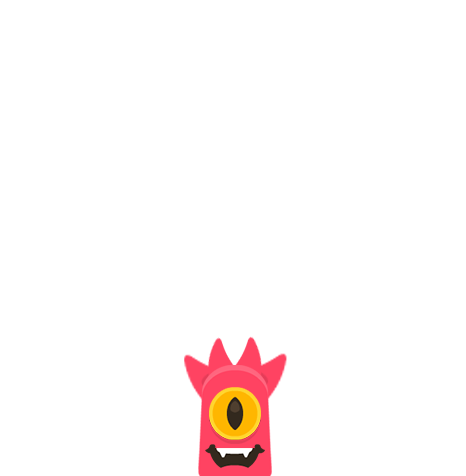
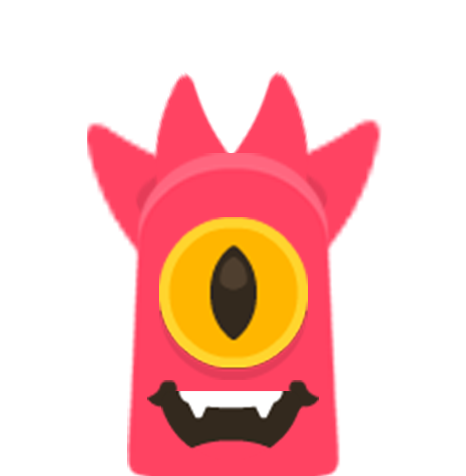
Boss assets added

diff --git a/MonstroStrike/MonstroStrike/GameState_Level1.cpp b/MonstroStrike/MonstroStrike/GameState_Level1.cpp
@@ -352,7 +352,7 @@ void Level1_Initialize()
 
 #pragma region Enemy
 	Enemy_Init({70.f,70.f}, {1200.f,-320.f}, ENEMY_IDLE, vecEnemy[0]);
-	Enemy_Init({200.f,200.f}, {-500.f,-100.f}, ENEMY_IDLE, vecEnemy[1]);
+	Enemy_Init({100.f,100.f}, {500.f, 250.f}, ENEMY_IDLE, vecEnemy[1]);
 	Enemy_Init({70.f,70.f}, { -500.f,250.f }, ENEMY_IDLE, vecEnemy[2]);
 	Enemy_Init({ 70.f,70.f }, { 800.f,150.f }, ENEMY_IDLE, vecEnemy[3]);
 #pragma endregion Enemy
@@ -361,7 +361,7 @@ void Level1_Initialize()
 
 void Level1_Update()
 {
-	//std::cout << AEFrameRateControllerGetFrameRate() << "\n";
+	std::cout << AEFrameRateControllerGetFrameRate() << "\n";
 	PlayerUpdate(*player);
 	cam->UpdatePos(*player);
 
@@ -543,13 +543,14 @@ void Level1_Update()
 						enemy.loop_idle = false;
 					}
 
-
-					for ( Bullet& bullet : enemy.bullets) {
-						if (AABBvsAABB(bullet.collisionBox, grids2D[rows][cols].collisionBox)) {
-							bullet.lifetime = 0; //makes bullet erase
-
+					if (enemy.enemyType == ENEMY_FLY || enemy.enemyType == ENEMY_BOSS1) {
+						for (Bullet& bullet : enemy.bullets) {
+							if (AABBvsAABB(bullet.collisionBox, grids2D[rows][cols].collisionBox)) {
+								bullet.lifetime = 0; //makes bullet erase
+							}
 						}
 					}
+
 				}
 
 				break;
@@ -776,34 +777,11 @@ void Level1_Draw()
 
 	for (Enemy& enemy : vecEnemy) {
 		if (enemy.isAlive) {
-			if (enemy.enemyType == ENEMY_BOSS1 && enemy.wing1.isAlive) {
-				if (enemy.isShooting){ 
-					AEGfxSetColorToAdd(1.0f, 0.0f, 0.0f, 0.0f); 
-				}
-				else {
-					AEGfxSetColorToAdd(0.0f, 0.0f, 0.0f, 0.0f);
-				}
 
-
-				AEGfxTextureSet(enemy.wing1.obj.img.pTex, 0, 0);
-				AEGfxSetTransform(ObjectTransformationMatrixSet(enemy.wing1.obj.pos.x, enemy.wing1.obj.pos.y, 0.f, enemy.wing1.obj.img.scale.x, enemy.wing1.obj.img.scale.y).m);
-				AEGfxMeshDraw(pWhiteSquareMesh, AE_GFX_MDM_TRIANGLES);
-			}
-			if (enemy.enemyType == ENEMY_BOSS1 && enemy.wing2.isAlive) {
-				if (enemy.isShooting) {
-					AEGfxSetColorToAdd(1.0f, 0.0f, 0.0f, 0.0f);
-				}
-				else {
-					AEGfxSetColorToAdd(0.0f, 0.0f, 0.0f, 0.0f);
-				}
-
-				AEGfxTextureSet(enemy.wing2.obj.img.pTex, 0, 0);
-				AEGfxSetTransform(ObjectTransformationMatrixSet(enemy.wing2.obj.pos.x, enemy.wing2.obj.pos.y, 0.f, enemy.wing2.obj.img.scale.x, enemy.wing2.obj.img.scale.y).m);
-				AEGfxMeshDraw(pWhiteSquareMesh, AE_GFX_MDM_TRIANGLES);
-			}
 
 			if (enemy.isShooting) {
 				AEGfxSetColorToAdd(0.0f, 0.0f, 0.0f, 0.0f);
+
 				AEGfxTextureSet(enemy.angrytex, 0, 0);
 				AEGfxSetTransform(ObjectTransformationMatrixSet(enemy.obj.pos.x, enemy.obj.pos.y, 0.f, enemy.obj.img.scale.x, enemy.obj.img.scale.y).m);
 				AEGfxMeshDraw(pWhiteSquareMesh, AE_GFX_MDM_TRIANGLES);
@@ -820,6 +798,33 @@ void Level1_Draw()
 				DrawBullets(enemy, pWhiteSquareMesh); //drawing bullets
 
 			}
+
+
+			//if (enemy.enemyType == ENEMY_BOSS1 && enemy.wing1.isAlive) {
+			//	if (enemy.isShooting) {
+			//		AEGfxSetColorToAdd(1.0f, 0.0f, 0.0f, 0.0f);
+			//	}
+			//	else {
+			//		AEGfxSetColorToAdd(0.0f, 0.0f, 0.0f, 0.0f);
+			//	}
+
+
+			//	AEGfxTextureSet(enemy.wing1.obj.img.pTex, 0, 0);
+			//	AEGfxSetTransform(ObjectTransformationMatrixSet(enemy.wing1.obj.pos.x, enemy.wing1.obj.pos.y, 0.f, enemy.wing1.obj.img.scale.x, enemy.wing1.obj.img.scale.y).m);
+			//	AEGfxMeshDraw(pWhiteSquareMesh, AE_GFX_MDM_TRIANGLES);
+			//}
+			//if (enemy.enemyType == ENEMY_BOSS1 && enemy.wing2.isAlive) {
+			//	if (enemy.isShooting) {
+			//		AEGfxSetColorToAdd(1.0f, 0.0f, 0.0f, 0.0f);
+			//	}
+			//	else {
+			//		AEGfxSetColorToAdd(0.0f, 0.0f, 0.0f, 0.0f);
+			//	}
+
+			//	AEGfxTextureSet(enemy.wing2.obj.img.pTex, 0, 0);
+			//	AEGfxSetTransform(ObjectTransformationMatrixSet(enemy.wing2.obj.pos.x, enemy.wing2.obj.pos.y, 0.f, enemy.wing2.obj.img.scale.x, enemy.wing2.obj.img.scale.y).m);
+			//	AEGfxMeshDraw(pWhiteSquareMesh, AE_GFX_MDM_TRIANGLES);
+			//}
 		}
 	}
 

diff --git a/MonstroStrike/MonstroStrike/EnemyBoss.cpp b/MonstroStrike/MonstroStrike/EnemyBoss.cpp
@@ -10,6 +10,7 @@
 void ENEMY_BOSS_Update(Enemy& enemy, struct Player& player)
 {
 	f32 distanceFromPlayer = AEVec2Distance(&player.obj.pos, &enemy.obj.pos);
+
 	AEVec2 Spawnloc;
 
 //health check
@@ -31,35 +32,52 @@ void ENEMY_BOSS_Update(Enemy& enemy, struct Player& player)
 	}
 
 	if (AEInputCheckCurr(AEVK_M)) {
-		enemy.isFlying = false;
+		enemy.health--;
+	}
+
+	if (AEInputCheckCurr(AEVK_L)) {
+		enemy.wing1.isAlive = false;
+		enemy.wing2.isAlive = false;
 	}
 
 
 	switch (enemy.enemyCurrent)
 	{
 	case ENEMY_IDLE:
-		if (distanceFromPlayer < enemy.lineOfSight && distanceFromPlayer > enemy.shootingRange) {
-			enemy.enemyNext = ENEMY_CHASE;
-			enemy.loop_idle = false;
+		if (enemy.health != 100) {
+			enemy.timePassed = 0.f;
+			enemy.enemyNext = ENEMY_TRANSITION;
+
+		}
+		//else {
+		//	enemy.enemyNext = ENEMY_IDLE;
+
+		//	//if (!((enemy.obj.pos.x >= enemy.starting_position.x - 1.0f) && (enemy.obj.pos.x <= enemy.starting_position.x + 1.0f)) && !(enemy.loop_idle)) {
+		//	//	MoveTowards(enemy, enemy.starting_position);
+		//	//}
+		//}
+		break;
+
+
+	case ENEMY_TRANSITION:
+		enemy.timePassed += (f32)AEFrameRateControllerGetFrameTime();
+		enemy.wing1.isAlive = true;
+		enemy.wing2.isAlive = true;
+		enemy.isFlying = true;
+		Spawnloc = enemy.starting_position;
+		if (enemy.obj.pos.y <= Spawnloc.y) {
+			MoveTowardsFLY(enemy, Spawnloc);
+			enemy.timePassed = 0.0f;
 		}
 		else {
-			enemy.enemyNext = ENEMY_IDLE;
-			//long condition to stop jittering
-			//loop_idle is a bool that works as a checker to start the "patrolling mode" for enemy, instead of standing still idling
-			if (enemy.loop_idle) {
-				MoveTowards(enemy, enemy.waypoint);
 
-				if ((enemy.obj.pos.x >= enemy.waypoint.x - 2.0f) && (enemy.obj.pos.x <= enemy.waypoint.x + 2.0f)) {
-					enemy.loop_idle = false;
-				}
-			}
-			if ((enemy.obj.pos.x >= enemy.starting_position.x - 1.0f) && (enemy.obj.pos.x <= enemy.starting_position.x + 1.0f)) {
-				enemy.loop_idle = true;
-			}
-			if (!((enemy.obj.pos.x >= enemy.starting_position.x - 1.0f) && (enemy.obj.pos.x <= enemy.starting_position.x + 1.0f)) && !(enemy.loop_idle)) {
-				MoveTowards(enemy, enemy.starting_position);
+			if (enemy.timePassed >= 1.0f) {
+				enemy.timePassed = 0.0f;
+				enemy.isShooting = true;
+				enemy.enemyNext = ENEMY_ATTACK;
 			}
 		}
+
 		break;
 
 	case ENEMY_CHASE:
@@ -74,9 +92,7 @@ void ENEMY_BOSS_Update(Enemy& enemy, struct Player& player)
 
 
 		}
-		else {
-			enemy.enemyNext = ENEMY_IDLE;
-		}
+
 		break;
 
 	case ENEMY_ATTACK:
@@ -87,20 +103,19 @@ void ENEMY_BOSS_Update(Enemy& enemy, struct Player& player)
 
 
 			if(CanPartFire(enemy.wing1) && enemy.wing1.isAlive) {
-				Spawnloc.x = enemy.wing1.obj.pos.x + 75.f;
-				Spawnloc.y = enemy.wing1.obj.pos.y - 50.f;
+				Spawnloc.x = enemy.wing1.obj.pos.x;
+				Spawnloc.y = enemy.wing1.obj.pos.y;
 				SpawnBullet(Spawnloc, player.obj.pos, enemy.bullets);
 
 			}
 			if (CanPartFire(enemy.wing2) && enemy.wing2.isAlive) {
-				Spawnloc.x = enemy.wing2.obj.pos.x - 75.f;
-				Spawnloc.y = enemy.wing2.obj.pos.y - 50.f;
+				Spawnloc.x = enemy.wing2.obj.pos.x;
+				Spawnloc.y = enemy.wing2.obj.pos.y;
 				SpawnBullet(Spawnloc, player.obj.pos, enemy.bullets);
 			}
 		}
 
 		if (distanceFromPlayer < enemy.lineOfSight && distanceFromPlayer > enemy.shootingRange) {
-			enemy.isShooting = false;
 			enemy.enemyNext = ENEMY_CHASE;
 		}
 		break;

diff --git a/MonstroStrike/MonstroStrike/Enemy.cpp b/MonstroStrike/MonstroStrike/Enemy.cpp
@@ -28,8 +28,15 @@ void Enemy_Load(int enemy_type, std::vector<Enemy>& vecEnemy ) {
 	case ENEMY_PASSIVE:
 		break;
 	case ENEMY_BOSS1:
-		enemy.obj.img.pTex = AEGfxTextureLoad("Assets/Enemy_Assets/Enemy_Boss1_Normal.png");
-		enemy.angrytex = AEGfxTextureLoad("Assets/Enemy_Assets/Enemy_Boss1_Angry.png");
+
+		enemy.obj.img.pTex = AEGfxTextureLoad("Assets/border.png");
+		enemy.angrytex = AEGfxTextureLoad("Assets/border.png");
+		//enemy.wing1.obj.img.pTex = AEGfxTextureLoad("Assets/border.png");
+		//enemy.wing2.obj.img.pTex = AEGfxTextureLoad("Assets/border.png");
+
+
+		//enemy.obj.img.pTex = AEGfxTextureLoad("Assets/Enemy_Assets/Enemy_Boss1_Normal.png");
+		//enemy.angrytex = AEGfxTextureLoad("Assets/Enemy_Assets/Enemy_Boss1_Angry.png");
 		enemy.wing1.obj.img.pTex = AEGfxTextureLoad("Assets/Enemy_Assets/Enemy_wing_right.png");
 		enemy.wing2.obj.img.pTex = AEGfxTextureLoad("Assets/Enemy_Assets/Enemy_wing_left.png");
 
@@ -143,17 +150,17 @@ void Enemy_Init(AEVec2 scale, AEVec2 location, int startingState, Enemy& enemy) 
 		//main body
 		enemy.isFlying = true;
 		enemy.speed = 80.f;
-		enemy.lineOfSight = 300.f;
+		enemy.lineOfSight = 1000.f;
 		enemy.shootingRange = 250.f;
 		enemy.fireRate = 1.0f;
 		enemy.timeSinceLastFire = 0;
 		enemy.health = 100;
-		enemy.mass = 10.f;
+		enemy.mass = 80.f;
 		AEVec2Set(&enemy.velocity, 0.f, 0.f); //Begin with no velocity
 
 		//wing1
-		enemy.wing1.isAlive = true;
-		enemy.wing1.Offset = 0.f;
+		enemy.wing1.isAlive = false;
+		enemy.wing1.Offset = 70.f;
 		AEVec2Set(&enemy.wing1.obj.pos, location.x + enemy.wing1.Offset, location.y); //set starting location
 		AEVec2Set(&enemy.wing1.obj.img.scale, scale.x, scale.y); //set scale of the image
 		enemy.wing1.collisionBox.minimum.x = enemy.wing1.obj.pos.x - enemy.wing1.obj.img.scale.x * 0.5f;
@@ -165,8 +172,8 @@ void Enemy_Init(AEVec2 scale, AEVec2 location, int startingState, Enemy& enemy) 
 		enemy.wing1.health = 100;
 
 		//wing2
-		enemy.wing2.isAlive = true;
-		enemy.wing2.Offset = 0.f;
+		enemy.wing2.isAlive = false;
+		enemy.wing2.Offset = -70.f;
 		AEVec2Set(&enemy.wing2.obj.pos, location.x + enemy.wing2.Offset, location.y); //set starting location
 		AEVec2Set(&enemy.wing2.obj.img.scale, scale.x, scale.y); //set scale of the image
 		enemy.wing2.collisionBox.minimum.x = enemy.wing2.obj.pos.x - enemy.wing2.obj.img.scale.x * 0.5f;

diff --git a/MonstroStrike/MonstroStrike/MapPlatformGenerate.cpp b/MonstroStrike/MonstroStrike/MapPlatformGenerate.cpp
@@ -175,10 +175,12 @@ void PlatformCollision(Platforms& movingObject, Enemy& enemy)
 		enemy.loop_idle = false;
 	}
 
-	for (Bullet& bullet : enemy.bullets) {
-		if (AABBvsAABB(bullet.collisionBox, movingObject.collisionBox)) {
-			bullet.lifetime = 0; //makes bullet erase
+	if (enemy.enemyType == ENEMY_FLY || enemy.enemyType == ENEMY_BOSS1) {
+		for (Bullet& bullet : enemy.bullets) {
+			if (AABBvsAABB(bullet.collisionBox, movingObject.collisionBox)) {
+				bullet.lifetime = 0; //makes bullet erase
 
+			}
 		}
 	}
 

diff --git a/MonstroStrike/MonstroStrike/Enemy.h b/MonstroStrike/MonstroStrike/Enemy.h
@@ -60,6 +60,8 @@ struct EnemyPart {
 
 
 struct Enemy {
+
+	EnemyPart wing1, wing2;
 	Object obj;
 	AEGfxTexture* angrytex;
 
@@ -108,8 +110,6 @@ struct Enemy {
 	std::vector<Bullet> bullets;	// Shared vector container for bullets
 	AEVec2 spawnPoint;				//point the bullet spawns from
 
-
-	EnemyPart wing1, wing2;
 };
 
 
